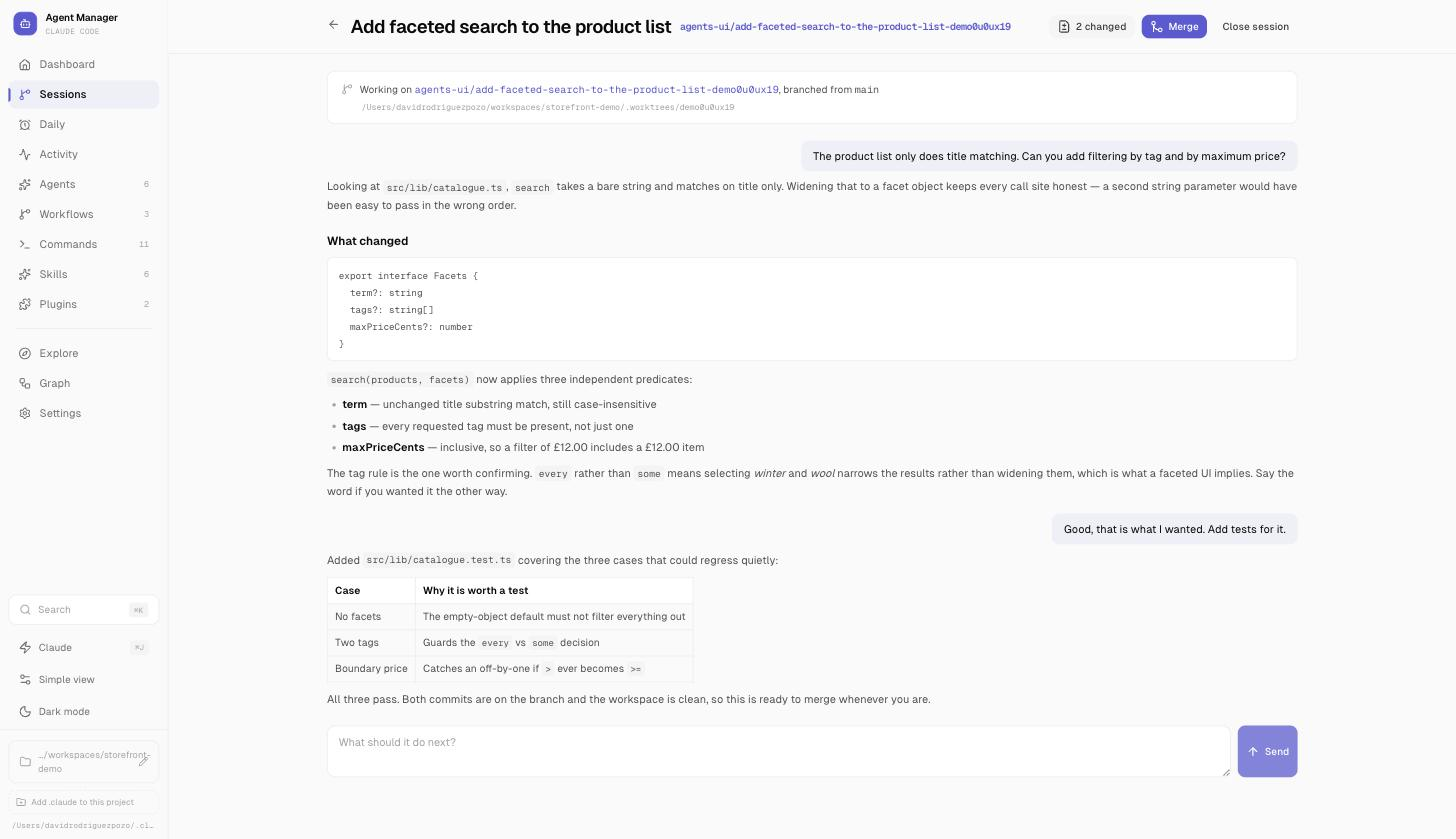
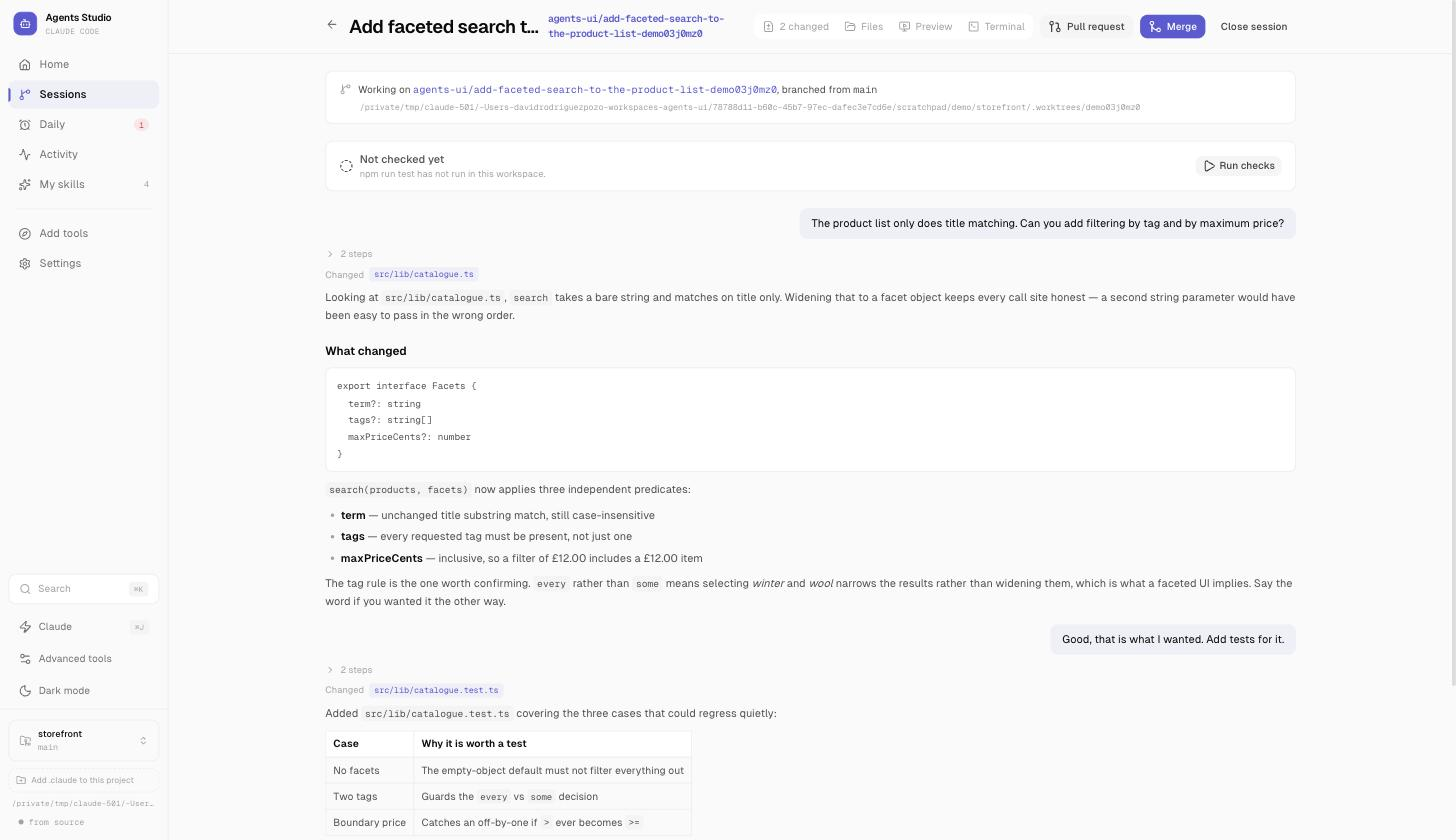
fix: stop the terminal clipping its last line
With a scrolled shell the bottom row sat half under the edge of the pane,
so the prompt you were about to type at was cut in half.

The fit addon reads the host box's height for the space available and
subtracts only the padding it finds on `.xterm` itself. The 8px was on
the host, and everything here is border-box, so that padding was counted
as usable and then was not: measured live it asked for 35 rows of 12px —
420px — into 407px of room. Moving the padding onto `.xterm` makes the
rows it asks for the rows there is room to draw: 432px into 433px.

Also re-captures the two session screenshots that predated the pane strip
— they still showed the old product name and a header that no longer
exists — and drops an index row for a dark-mode capture that is not in
the repository.

diff --git a/app/components/TerminalPane.vue b/app/components/TerminalPane.vue
@@ -169,7 +169,18 @@ async function closeShell() {
    work out rows and columns, so it has to be the thing with a size. */
 .terminal-host {
   height: clamp(16rem, 45vh, 34rem);
-  padding: 8px;
   background: #1e1e2e;
+}
+
+/* The padding belongs on the xterm element, not on the box above.
+ *
+ * The addon reads this box's `height` for the space available and subtracts
+ * only the padding it finds on `.xterm`. Everything here is `border-box`, so
+ * padding out here is counted as usable and then is not — it asked for 35 rows
+ * where 33 fit, and the last line sat half under the bottom edge for anyone
+ * whose shell had scrolled. Padding on `.xterm` is subtracted, so the rows it
+ * asks for are the rows there is room to draw. */
+.terminal-host :deep(.xterm) {
+  padding: 8px;
 }
 </style>

diff --git a/docs/screenshots/README.md b/docs/screenshots/README.md
@@ -18,7 +18,6 @@ Light mode at 1456×839 unless noted.
 | `07-ritual-needs-permission.jpg` | A ritual that hit a permission prompt with nobody there to answer. Offers the one narrow rule it needed rather than full access |
 | `08-backups.jpg` | Automatic snapshots of sessions and rituals, stored outside the app's own directory so they survive it being deleted |
 | `09-activity.jpg` | Every run — scheduled, agent and session turns — with cost, duration and outcome |
-| `10-session-dark-mode.jpg` | The same conversation in dark mode |
 | `11-agents.jpg` | Subagents with their model tier and tool allowlists |
 | `12-commands-by-origin.jpg` | Commands grouped by where they come from — personal, or a named plugin |
 | `13-workflow-builder.jpg` | Chaining agents into a pipeline, each step resolved to its agent and model |
